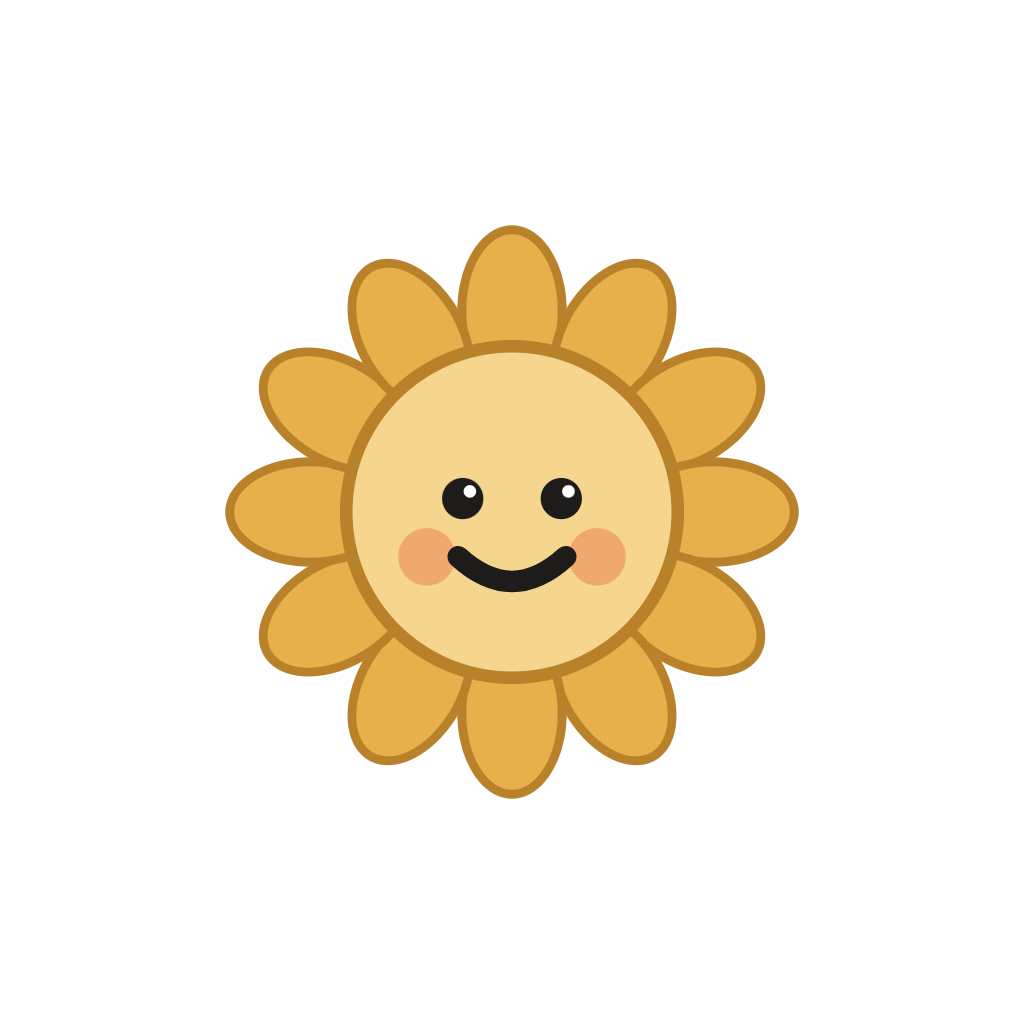
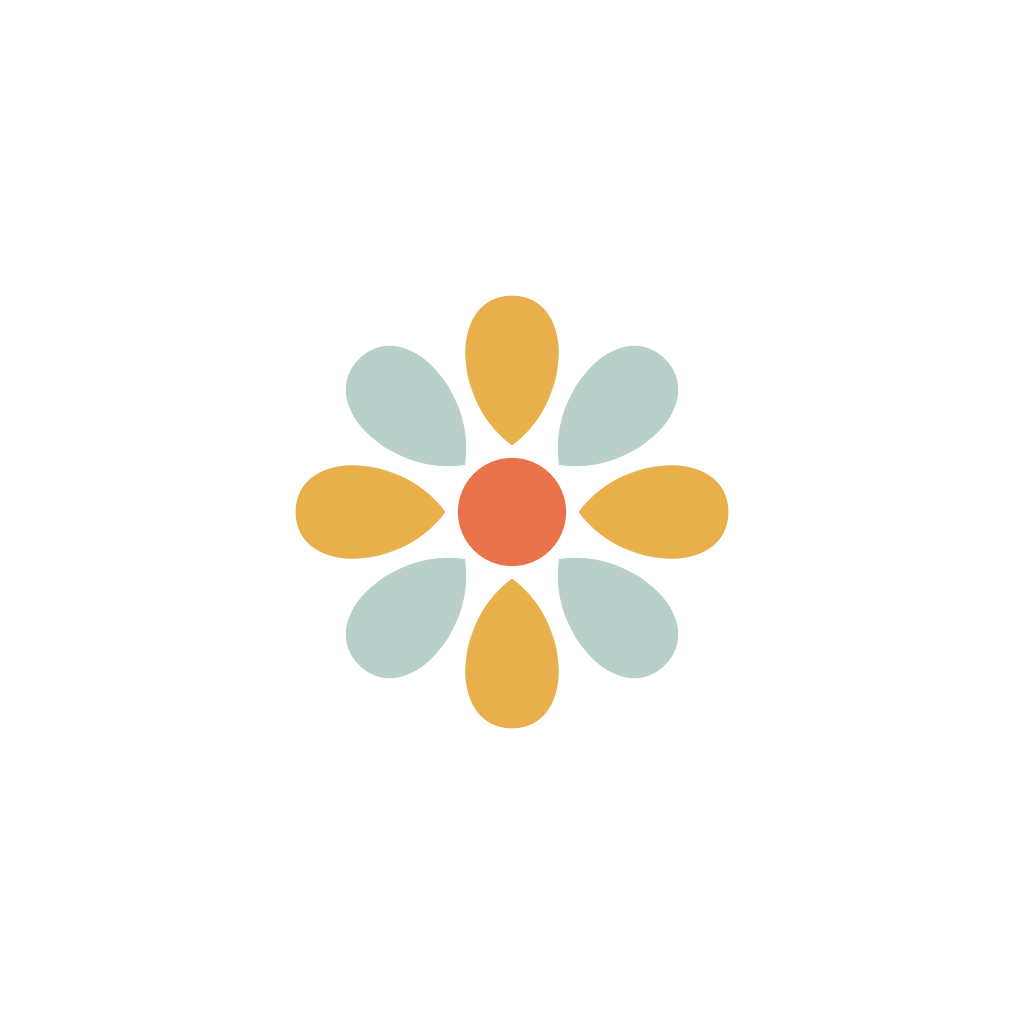
mudança da marca

Changed region(s): [[0.2188, 0.2188, 0.7812, 0.7812]]

diff --git a/apps/mobile/src/components/SunFyMark.tsx b/apps/mobile/src/components/SunFyMark.tsx
@@ -1,0 +1,45 @@
+import Svg, { Circle, G, Path, Rect } from 'react-native-svg'
+import { BRAND } from '@simply-life/ui-tokens'
+
+/** Verde-azulado da paleta de gráficos: a pétala par quando o fundo é claro */
+const TEAL = '#389387'
+
+const PETAL = 'M32 24 C24.5 18.5 24.5 6 32 6 C39.5 6 39.5 18.5 32 24 Z'
+const ANGLES = Array.from({ length: 8 }, (_, i) => i * 45)
+
+/**
+ * Símbolo da marca SunFy, "tudo se volta pra você": oito pétalas viradas
+ * para o centro, e o centro coral é a pessoa. Como os girassóis que se viram
+ * uns para os outros nos dias nublados.
+ *
+ * `tile`: quadro petróleo do ícone do app. Sem ele, `onLight` troca a menta
+ * pelo verde-azulado para manter contraste sobre fundo claro.
+ */
+export function SunFyMark({
+  size = 40,
+  tile,
+  onLight,
+  label = 'SunFy',
+}: {
+  size?: number
+  tile?: boolean
+  onLight?: boolean
+  label?: string
+})
+{
+  const even = !tile && onLight ? TEAL : BRAND.menta
+  const scale = tile ? 0.82 : 1
+  const off = (1 - scale) * 32
+
+  return (
+    <Svg width={size} height={size} viewBox="0 0 64 64" accessibilityRole="image" accessibilityLabel={label}>
+      {tile ? <Rect width="64" height="64" rx="14" fill={BRAND.petroleo} /> : null}
+      <G transform={`translate(${off} ${off}) scale(${scale})`}>
+        {ANGLES.map((deg, i) => (
+          <Path key={deg} d={PETAL} fill={i % 2 ? even : BRAND.sol} transform={`rotate(${deg} 32 32)`} />
+        ))}
+        <Circle cx={32} cy={32} r={6.5} fill={BRAND.coral} />
+      </G>
+    </Svg>
+  )
+}

diff --git a/apps/mobile/src/components/BrandMark.tsx b/apps/mobile/src/components/BrandMark.tsx
@@ -1,9 +1,7 @@
 import { View, type TextStyle } from 'react-native'
-import Svg, { Rect } from 'react-native-svg'
-import { BRAND } from '@simply-life/ui-tokens'
 import { Text } from '../ui'
 import { useTheme } from '../theme/ThemeProvider'
-import { AxelSun } from './AxelSun'
+import { SunFyMark } from './SunFyMark'
 
 /**
  * Nome SunFy: o "u" em coral é o sorriso da marca.
@@ -27,7 +25,7 @@ export function SunFyWordmark({
   )
 }
 
-/** Marca SunFy: o Axel, girassol de rosto amigo, sobre petróleo */
+/** Marca SunFy: o símbolo "tudo se volta pra você" (o Axel é o personagem, não a marca) */
 export function BrandMark({
   size = 72,
   lockup,
@@ -41,18 +39,7 @@ export function BrandMark({
 {
   const { colors, space } = useTheme()
 
-  const icon = onFill ? (
-    <AxelSun size={size} label="SunFy" />
-  ) : (
-    <View style={{ width: size, height: size }}>
-      <Svg width={size} height={size} viewBox="0 0 32 32" style={{ position: 'absolute' }}>
-        <Rect width="32" height="32" rx="7.2" fill={BRAND.petroleo} />
-      </Svg>
-      <View style={{ flex: 1, alignItems: 'center', justifyContent: 'center' }}>
-        <AxelSun size={size * 0.84} label="SunFy" />
-      </View>
-    </View>
-  )
+  const icon = onFill ? <SunFyMark size={size} /> : <SunFyMark size={size} tile />
 
   if (!lockup) return icon
 

diff --git a/frontend/index.html b/frontend/index.html
@@ -3,9 +3,9 @@
   <head>
     <script src="/theme-bootstrap.js"></script>
     <meta charset="UTF-8" />
-    <link rel="icon" href="/favicon.ico?v=sunfy" sizes="any" />
-    <link rel="icon" type="image/svg+xml" href="/favicon.svg?v=sunfy" />
-    <link rel="icon" type="image/png" sizes="192x192" href="/pwa-192x192.png?v=sunfy" />
+    <link rel="icon" href="/favicon.ico?v=sunfy2" sizes="any" />
+    <link rel="icon" type="image/svg+xml" href="/favicon.svg?v=sunfy2" />
+    <link rel="icon" type="image/png" sizes="192x192" href="/pwa-192x192.png?v=sunfy2" />
     <meta name="viewport" content="width=device-width, initial-scale=1.0, viewport-fit=cover" />
     <meta name="theme-color" content="#1F3A3D" />
     <meta name="mobile-web-app-capable" content="yes" />
@@ -31,7 +31,7 @@
     <meta name="twitter:image" content="/og-image.png" />
 
     <!-- Apple Touch Icon -->
-    <link rel="apple-touch-icon" href="/pwa-192x192.png?v=sunfy" />
+    <link rel="apple-touch-icon" href="/pwa-192x192.png?v=sunfy2" />
 
     <link rel="preconnect" href="https://fonts.googleapis.com" />
     <link rel="preconnect" href="https://fonts.gstatic.com" crossorigin />

diff --git a/frontend/src/components/brand/SunFyMark.tsx b/frontend/src/components/brand/SunFyMark.tsx
@@ -1,0 +1,23 @@
+// Símbolo da marca SunFy, "tudo se volta pra você". Mesmo desenho do app (apps/mobile/src/components/SunFyMark.tsx)
+
+const SOL = '#E8B04B'
+const MENTA = '#B9CFCA'
+const TEAL = '#389387'
+const CORAL = '#E8734A'
+
+const PETAL = 'M32 24 C24.5 18.5 24.5 6 32 6 C39.5 6 39.5 18.5 32 24 Z'
+const ANGLES = Array.from({ length: 8 }, (_, i) => i * 45)
+
+/** Oito pétalas viradas para o centro coral (a pessoa), em viewBox 64. `onLight` troca a menta pelo verde-azulado. */
+export function SunFyMarkShapes({ onLight = false }: { onLight?: boolean })
+{
+  const even = onLight ? TEAL : MENTA
+  return (
+    <>
+      {ANGLES.map((deg, i) => (
+        <path key={deg} d={PETAL} fill={i % 2 ? even : SOL} transform={`rotate(${deg} 32 32)`} />
+      ))}
+      <circle cx="32" cy="32" r="6.5" fill={CORAL} />
+    </>
+  )
+}

diff --git a/frontend/src/components/brand/SimplyLifeMark.tsx b/frontend/src/components/brand/SimplyLifeMark.tsx
@@ -1,5 +1,6 @@
-// Marca SunFy: o Axel girassol sobre petróleo e o nome com o "u" em coral (o sorriso)
-import { AxelSunShapes } from './AxelSun'
+// Marca SunFy: o símbolo "tudo se volta pra você" sobre petróleo e o nome com o "u" em coral
+// O Axel é o personagem do app, não a marca
+import { SunFyMarkShapes } from './SunFyMark'
 
 type MarkVariant = 'icon' | 'lockup'
 
@@ -42,8 +43,8 @@ export function SimplyLifeMark({ variant = 'icon', className = '' }: SimplyLifeM
       focusable="false"
     >
       <rect width="32" height="32" rx="7.2" fill="#1F3A3D" />
-      <g transform="translate(2.6 2.6) scale(0.42)">
-        <AxelSunShapes />
+      <g transform="translate(2.88 2.88) scale(0.41)">
+        <SunFyMarkShapes />
       </g>
     </svg>
   )

diff --git a/frontend/src/components/Auth/LoginProductMock.tsx b/frontend/src/components/Auth/LoginProductMock.tsx
@@ -6,6 +6,7 @@
  */
 import type { ReactNode } from 'react'
 import { AxelSun } from '../brand/AxelSun'
+import { SunFyMarkShapes } from '../brand/SunFyMark'
 
 function Check({ done }: { done?: boolean })
 {
@@ -75,7 +76,7 @@ function Laptop()
         <div className="aspect-[16/10] overflow-hidden rounded-[8px] p-3 xl:p-4">
           {/* topo do app */}
           <div className="mb-3 flex items-center gap-3">
-            <AxelSun size={20} />
+            <svg viewBox="0 0 64 64" className="h-5 w-5" aria-hidden><SunFyMarkShapes onLight /></svg>
             {['Hoje', 'Tarefas', 'Saúde', 'Finanças'].map((t, i) => (
               <span
                 key={t}

diff --git a/README.MD b/README.MD
@@ -1,9 +1,13 @@
+<p align="center">
+  <img src="docs/images/brand/sunfy-icon.svg" width="56" alt="Símbolo do SunFy: oito pétalas viradas para o centro" />
+</p>
+
 <h1 align="center">SunFy</h1>
 
 <p align="center">
   Um app para organizar o dia sem pressão.<br />
   Tarefas, humor, saúde e dinheiro no mesmo lugar.<br />
-  <sub>SunFy vem de <em>SUNflower</em> + <em>FY</em> (for you): um girassol pra você. Nos dias nublados, os girassóis se viram uns para os outros.</sub>
+  <sub>SunFy vem de <em>SUNflower</em> + <em>FY</em> (for you): um girassol pra você. Nos dias nublados, os girassóis se viram uns para os outros: por isso as pétalas do símbolo se voltam para o centro, que é você.</sub>
 </p>
 
 <p align="center">
